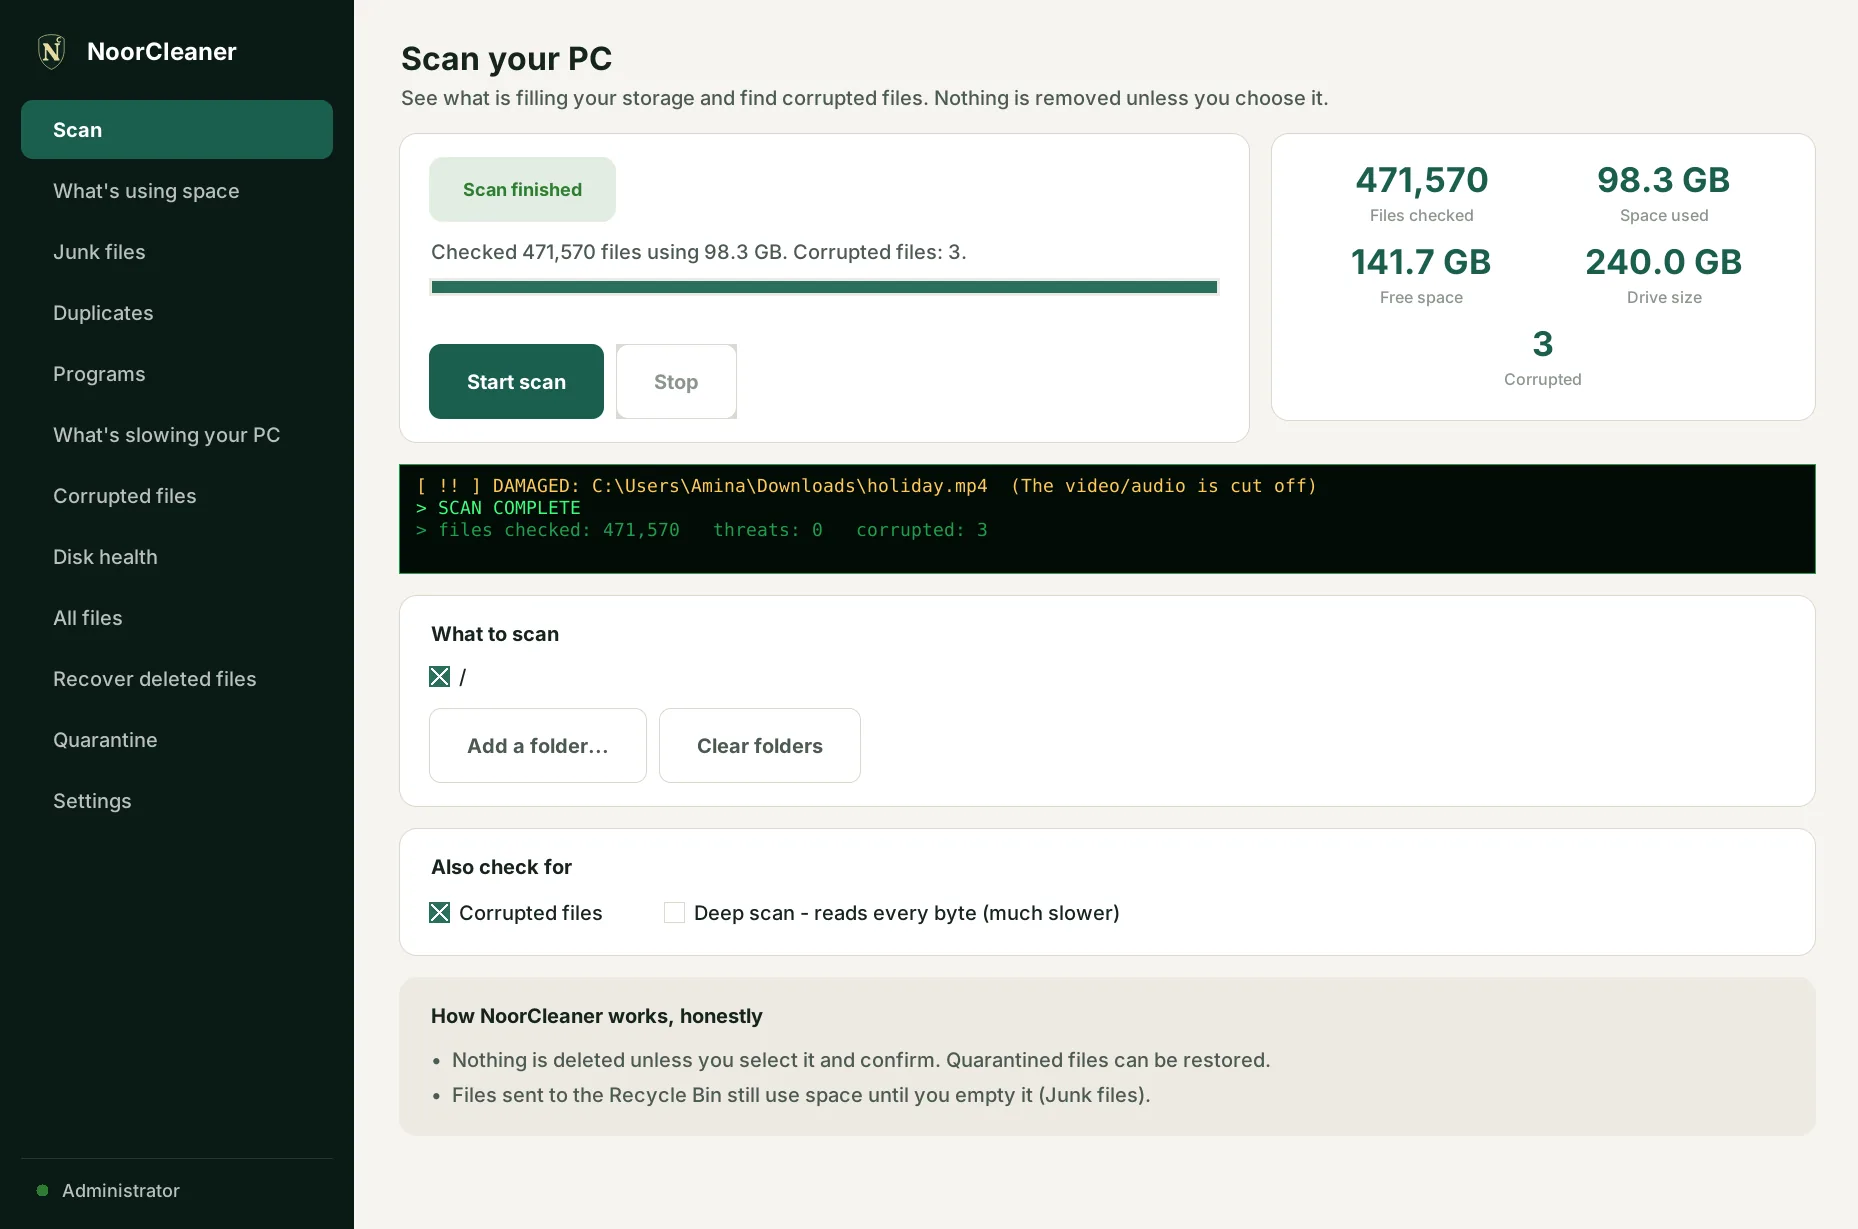
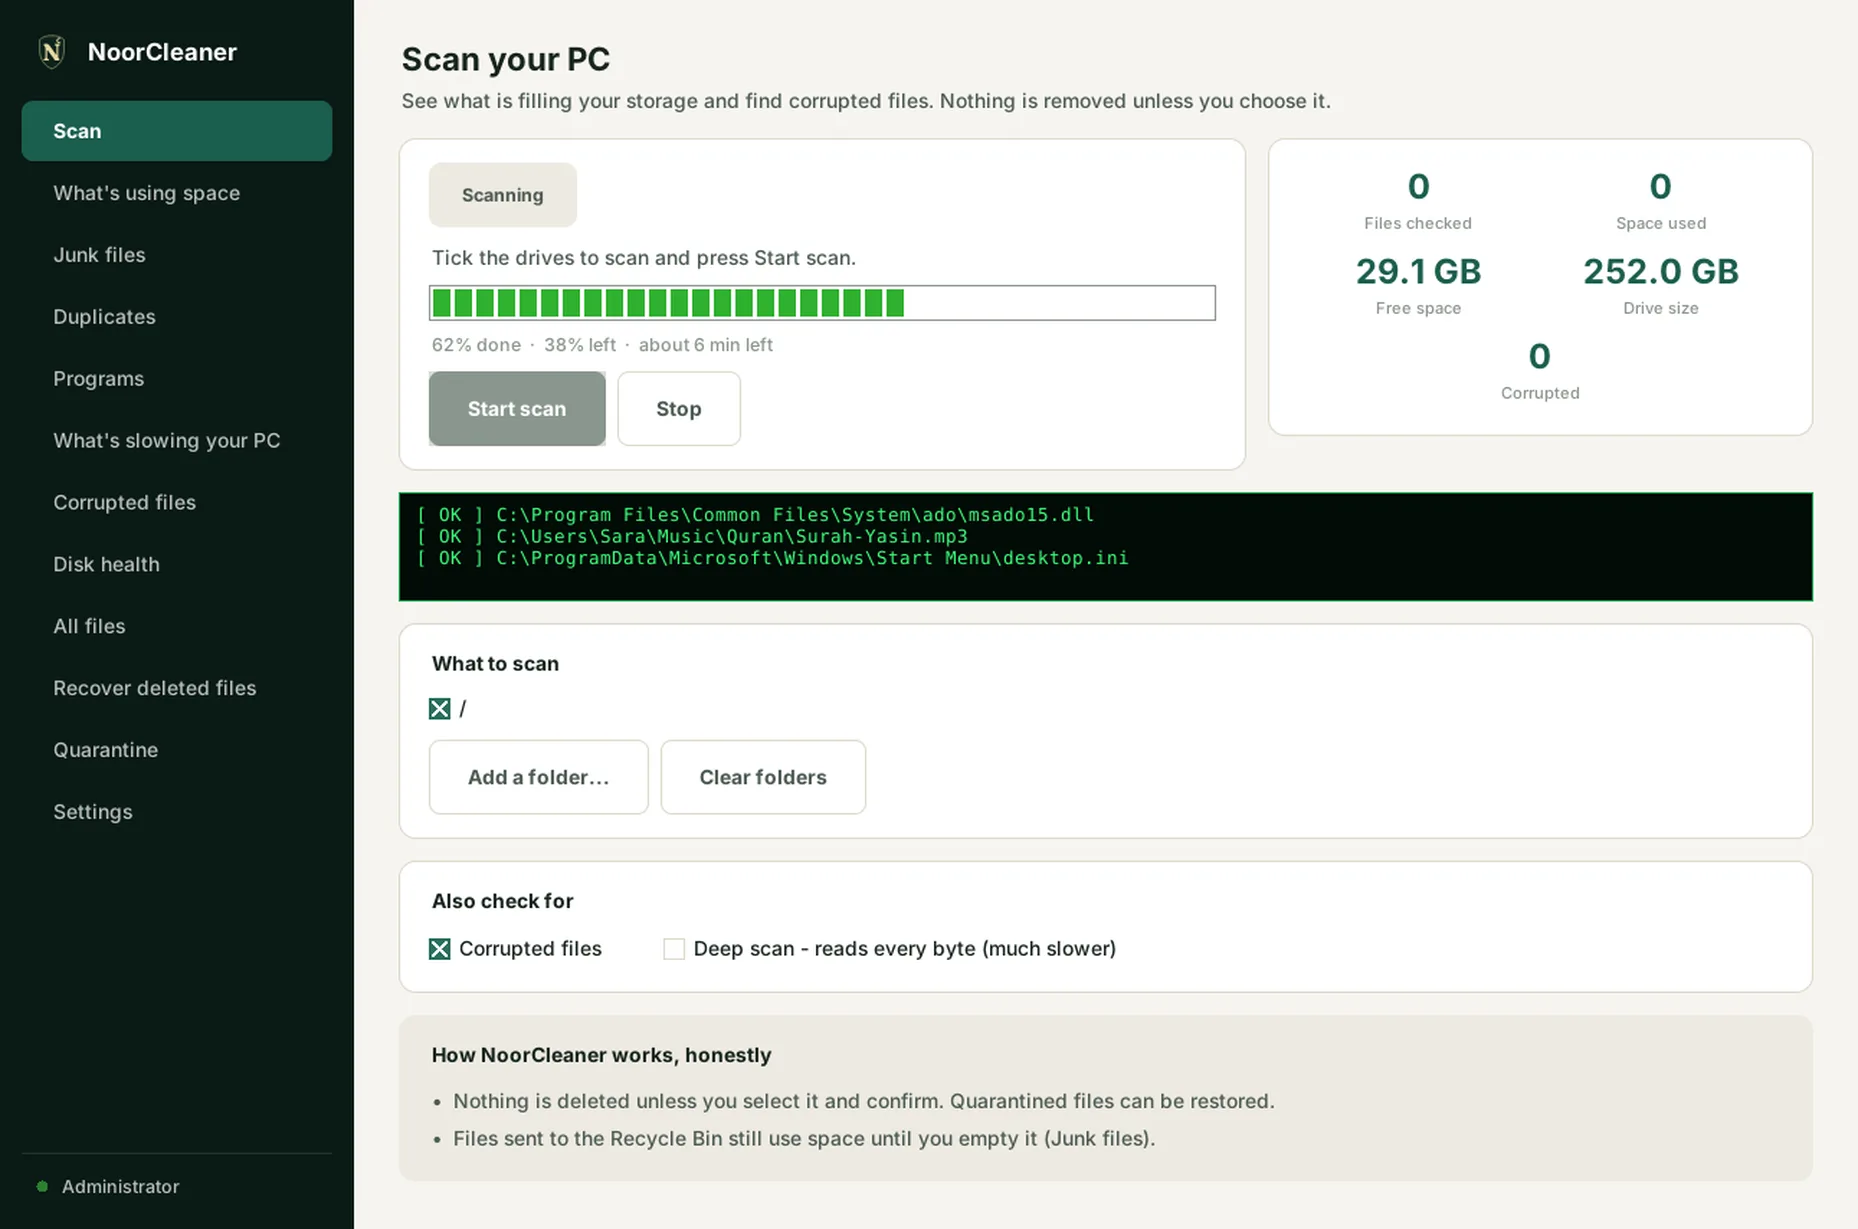
NoorCleaner page: progress bar, cancel and auto-updating lists (2.7)
Claude-Session: https://claude.ai/code/session_01XaM13YcQrwPvAWamN7GQYo

diff --git a/noorcleaner/index.html b/noorcleaner/index.html
@@ -56,7 +56,7 @@
         </div>
       </div>
       <div class="window" aria-hidden="false">
-        <div class="titlebar"><img src="img/logo.svg" alt="">NoorCleaner 2.5<span class="controls"><span>&#8212;</span><span>&#9633;</span><span>&#10005;</span></span></div>
+        <div class="titlebar"><img src="img/logo.svg" alt="">NoorCleaner 2.7<span class="controls"><span>&#8212;</span><span>&#9633;</span><span>&#10005;</span></span></div>
         <img class="shot" src="img/space.webp" width="1858" height="1229" alt="NoorCleaner showing the biggest folders, file types and files on a PC" data-zoom>
       </div>
     </div>
@@ -84,6 +84,19 @@
       <article class="feature reveal">
         <div class="feature-text">
           <span class="feature-num">1</span>
+          <h3 data-i18n="fp_title">A progress bar you can trust</h3>
+          <p data-i18n="fp_text">A green block bar fills up like the old Windows copy window, and tells you how many percent is done, how many percent is left and about how long to wait. Anything that is running has a Cancel button.</p>
+          <ul class="ticks"><li data-i18n="fp_b1">Percent done and percent left, always on screen</li><li data-i18n="fp_b2">Cancel any running job with one click</li><li data-i18n="fp_b3">Programs you uninstall disappear from the list by themselves</li></ul>
+        </div>
+        <figure class="shots" style="margin:0">
+          <div class="window"><div class="titlebar"><img src="img/logo.svg" alt="">NoorCleaner<span class="controls"><span>&#8212;</span><span>&#9633;</span><span>&#10005;</span></span></div>
+            <img class="shot" loading="lazy" src="img/scan.webp" width="1858" height="1229" alt="Scan page with the green block progress bar showing percent done and left" data-zoom></div>
+        </figure>
+      </article>
+
+      <article class="feature reveal">
+        <div class="feature-text">
+          <span class="feature-num">2</span>
           <h3 data-i18n="f1_title">What's using space</h3>
           <p data-i18n="f1_text">See how full each drive is, open the biggest folders to look inside, and spot the largest files and file types at a glance.</p>
           <ul class="ticks"><li data-i18n="f1_b1">Biggest folders, opened one level at a time</li><li data-i18n="f1_b2">Space by type: videos, photos, music, documents, games</li><li data-i18n="f1_b3">The biggest files, with Recycle Bin or Delete right there</li></ul>
@@ -96,7 +109,7 @@
 
       <article class="feature reveal">
         <div class="feature-text">
-          <span class="feature-num">2</span>
+          <span class="feature-num">3</span>
           <h3 data-i18n="f2_title">Junk files and old downloads</h3>
           <p data-i18n="f2_text">Clear the clutter Windows and your apps leave behind, and find installers and zip files you downloaded months ago.</p>
           <ul class="ticks"><li data-i18n="f2_b1">Recycle Bin, temporary files, browser cache, crash reports, old Windows Update files</li><li data-i18n="f2_b2">Shows how much each one frees before you clean</li><li data-i18n="f2_b3">Old downloads you have not touched in 90 days</li></ul>
@@ -110,7 +123,7 @@
 
       <article class="feature reveal">
         <div class="feature-text">
-          <span class="feature-num">3</span>
+          <span class="feature-num">4</span>
           <h3 data-i18n="f3_title">Duplicates and similar photos</h3>
           <p data-i18n="f3_text">Find exact copies of the same file, and photos that look the same even when they are resized or re-sent on WhatsApp.</p>
           <ul class="ticks"><li data-i18n="f3_b1">Keeps the oldest or best-quality copy for you</li><li data-i18n="f3_b2">Compares what is inside the files, not just their names</li><li data-i18n="f3_b3">Skips Windows and program folders, where copies are normal</li></ul>
@@ -124,7 +137,7 @@
 
       <article class="feature reveal">
         <div class="feature-text">
-          <span class="feature-num">4</span>
+          <span class="feature-num">5</span>
           <h3 data-i18n="f4_title">Programs and startup</h3>
           <p data-i18n="f4_text">See which programs take the most space, find the ones you have not used for months, and uninstall them. Choose what starts with Windows so your PC starts faster.</p>
           <ul class="ticks"><li data-i18n="f4_b1">Installed programs, biggest first, with each program's own uninstaller</li><li data-i18n="f4_b2">Programs with no sign of use for 3 months, 6 months or a year (a careful guess, not a verdict)</li><li data-i18n="f4_b3">Turn startup programs off and on, just like Task Manager</li></ul>
@@ -138,7 +151,7 @@
 
       <article class="feature reveal">
         <div class="feature-text">
-          <span class="feature-num">5</span>
+          <span class="feature-num">6</span>
           <h3 data-i18n="fs_title">What's slowing your PC</h3>
           <p data-i18n="fs_text">Finds the likely reasons your PC feels slow, such as full memory, a busy disk, too many startup programs or little free space, and tells you what to do about each one.</p>
           <ul class="ticks"><li data-i18n="fs_b1">Plain explanations instead of technical numbers</li><li data-i18n="fs_b2">Shows the programs using the most memory and processor</li><li data-i18n="fs_b3">Takes you straight to the fix: startup programs, junk files or Task Manager</li></ul>
@@ -152,7 +165,7 @@
 
       <article class="feature reveal">
         <div class="feature-text">
-          <span class="feature-num">6</span>
+          <span class="feature-num">7</span>
           <h3 data-i18n="f5_title">Disk health</h3>
           <p data-i18n="f5_text">A plain answer to "is my drive OK?", from what the drive itself reports to Windows: temperature, wear and errors.</p>
           <ul class="ticks"><li data-i18n="f5_b1">Healthy, needs attention, or failing: back up now</li><li data-i18n="f5_b2">SSD wear and hours switched on</li><li data-i18n="f5_b3">Runs Windows' own drive check for you</li></ul>
@@ -165,7 +178,7 @@
 
       <article class="feature reveal">
         <div class="feature-text">
-          <span class="feature-num">7</span>
+          <span class="feature-num">8</span>
           <h3 data-i18n="f6_title">Corrupted files</h3>
           <p data-i18n="f6_text">Finds documents, photos, videos and programs that are damaged or cut off, and repairs broken Windows files with Microsoft's own tools.</p>
           <ul class="ticks"><li data-i18n="f6_b1">Finds broken documents, photos, videos and programs</li><li data-i18n="f6_b2">Repairs damaged Windows files with Microsoft's own tools</li><li data-i18n="f6_b3">Quarantine locks files away first, and can restore them</li></ul>
@@ -178,7 +191,7 @@
 
       <article class="feature reveal">
         <div class="feature-text">
-          <span class="feature-num">8</span>
+          <span class="feature-num">9</span>
           <h3 data-i18n="f7_title">Recover deleted files</h3>
           <p data-i18n="f7_text">Get back files from the Recycle Bin, from Windows restore points, or, for permanently deleted files, with Microsoft's free Windows File Recovery.</p>
           <ul class="ticks"><li data-i18n="f7_b1">Puts files back where they came from</li><li data-i18n="f7_b2">Finds files that were in a restore point but are gone now</li><li data-i18n="f7_b3">Never saves recovered files over the ones you are rescuing</li></ul>
@@ -191,7 +204,7 @@
 
       <article class="feature reveal" id="languages">
         <div class="feature-text">
-          <span class="feature-num">9</span>
+          <span class="feature-num">10</span>
           <h3 data-i18n="f8_title">In your language</h3>
           <p data-i18n="f8_text">Choose English, Arabic or Afaan Oromoo when you install, and change it any time in Settings. In Arabic the whole app reads right to left.</p>
           <ul class="ticks"><li data-i18n="f8_b1">Every screen and message translated</li><li data-i18n="f8_b2">An optional weekly or monthly junk reminder</li><li data-i18n="f8_b3">Works completely offline</li></ul>
@@ -434,7 +447,12 @@ const T = {
   "h6": "يسألك نور كلينر هل تشغّله كمسؤول (موصى به) أم كمستخدم عادي. صلاحيات المسؤول تتيح له فحص الجهاز كله، أما المستخدم العادي فلا يرى إلا ما يخصه.",
   "h7": "قائمة «غير مستخدمة منذ مدة طويلة» تقدير من سجلات يحتفظ بها ويندوز. افحص كل برنامج قبل إلغاء تثبيته.",
   "q8": "لماذا يسأل هل يعمل كمسؤول؟",
-  "a8": "صلاحيات المسؤول تتيح له فحص الجهاز كله، بما في ذلك مجلدات المستخدمين الآخرين والمجلدات المحمية، وحذف الملفات التي يحميها ويندوز. وكمستخدم عادي لا يرى إلا ما يخصك، فتكون بعض الفحوصات ناقصة وبعض الملفات لا يمكن حذفها. الاختيار لك ويمكنك تغييره من الإعدادات. وفي الحالتين لا يزيل شيئًا من دون تأكيدك."
+  "a8": "صلاحيات المسؤول تتيح له فحص الجهاز كله، بما في ذلك مجلدات المستخدمين الآخرين والمجلدات المحمية، وحذف الملفات التي يحميها ويندوز. وكمستخدم عادي لا يرى إلا ما يخصك، فتكون بعض الفحوصات ناقصة وبعض الملفات لا يمكن حذفها. الاختيار لك ويمكنك تغييره من الإعدادات. وفي الحالتين لا يزيل شيئًا من دون تأكيدك.",
+  "fp_title": "شريط تقدّم يمكنك الوثوق به",
+  "fp_text": "شريط أخضر من المربعات يمتلئ كما في نافذة النسخ القديمة في ويندوز، ويخبرك بنسبة ما أُنجز ونسبة المتبقي والوقت التقريبي للانتظار. وأي عملية قيد التنفيذ لها زر إلغاء.",
+  "fp_b1": "نسبة المُنجَز ونسبة المتبقي ظاهرتان دائمًا",
+  "fp_b2": "ألغِ أي عملية جارية بنقرة واحدة",
+  "fp_b3": "البرامج التي تُزيلها تختفي من القائمة تلقائيًا"
  },
  "om": {
   "nav_features": "Amaloota",
@@ -569,7 +587,12 @@ const T = {
   "h6": "NoorCleaner akka bulchaatti (kan gorfamu) ykn akka fayyadamaa idileetti hojjechiisuu akka barbaaddu si gaafata. Bulchaan kompiitara guutuu ilaaluu danda'a; fayyadamaan idilee wanta kan isaa ta'e qofa arga.",
   "h7": "Tarreen 'yeroo dheeraaf hin fayyadamamne' galmee Windows eegu irraa tilmaama. Osoo hin haqin dura appii tokkoon tokkoon ilaali.",
   "q8": "Maaliif akka bulchaatti hojjechuu akka qabu gaafata?",
-  "a8": "Mirgi bulchaa kompiitara guutuu, foldaroota fayyadamtoota biroo fi foldaroota eegaman dabalatee ilaaluu fi faayiloota Windows eegu haquu dandeessisa. Akka fayyadamaa idileetti wanta kan kee ta'e qofa arga, kanaaf sakatta'iinsi tokko tokko hin guutamu, faayiloonni tokko tokko hin haqaman. Filannoon kan kee dha, Qindaa'ina keessatti jijjiiruu dandeessa. Haala lamaanuunuu eeyyama kee malee homtuu hin haqu."
+  "a8": "Mirgi bulchaa kompiitara guutuu, foldaroota fayyadamtoota biroo fi foldaroota eegaman dabalatee ilaaluu fi faayiloota Windows eegu haquu dandeessisa. Akka fayyadamaa idileetti wanta kan kee ta'e qofa arga, kanaaf sakatta'iinsi tokko tokko hin guutamu, faayiloonni tokko tokko hin haqaman. Filannoon kan kee dha, Qindaa'ina keessatti jijjiiruu dandeessa. Haala lamaanuunuu eeyyama kee malee homtuu hin haqu.",
+  "fp_title": "Sararri adeemsa amanamaa",
+  "fp_text": "Sararri magariisaa kuusaa akka foddaa kopii Windows durii guutama; hammam %-n xumurame, hammam %-n hafe fi yeroo tilmaamaan eeguu qabdu isiniif argisiisa. Hojiin adeemaa jiru kamiyyuu button Haqi (Cancel) qaba.",
+  "fp_b1": "%-n xumurame fi %-n hafe yeroo hunda mul'ata",
+  "fp_b2": "Hojii adeemaa jiru tokkoon cuqaasuun dhaabi",
+  "fp_b3": "Appiiwwan ba'an tarreeffama keessaa of-eeggannoon bada"
  }
 };
 </script>
